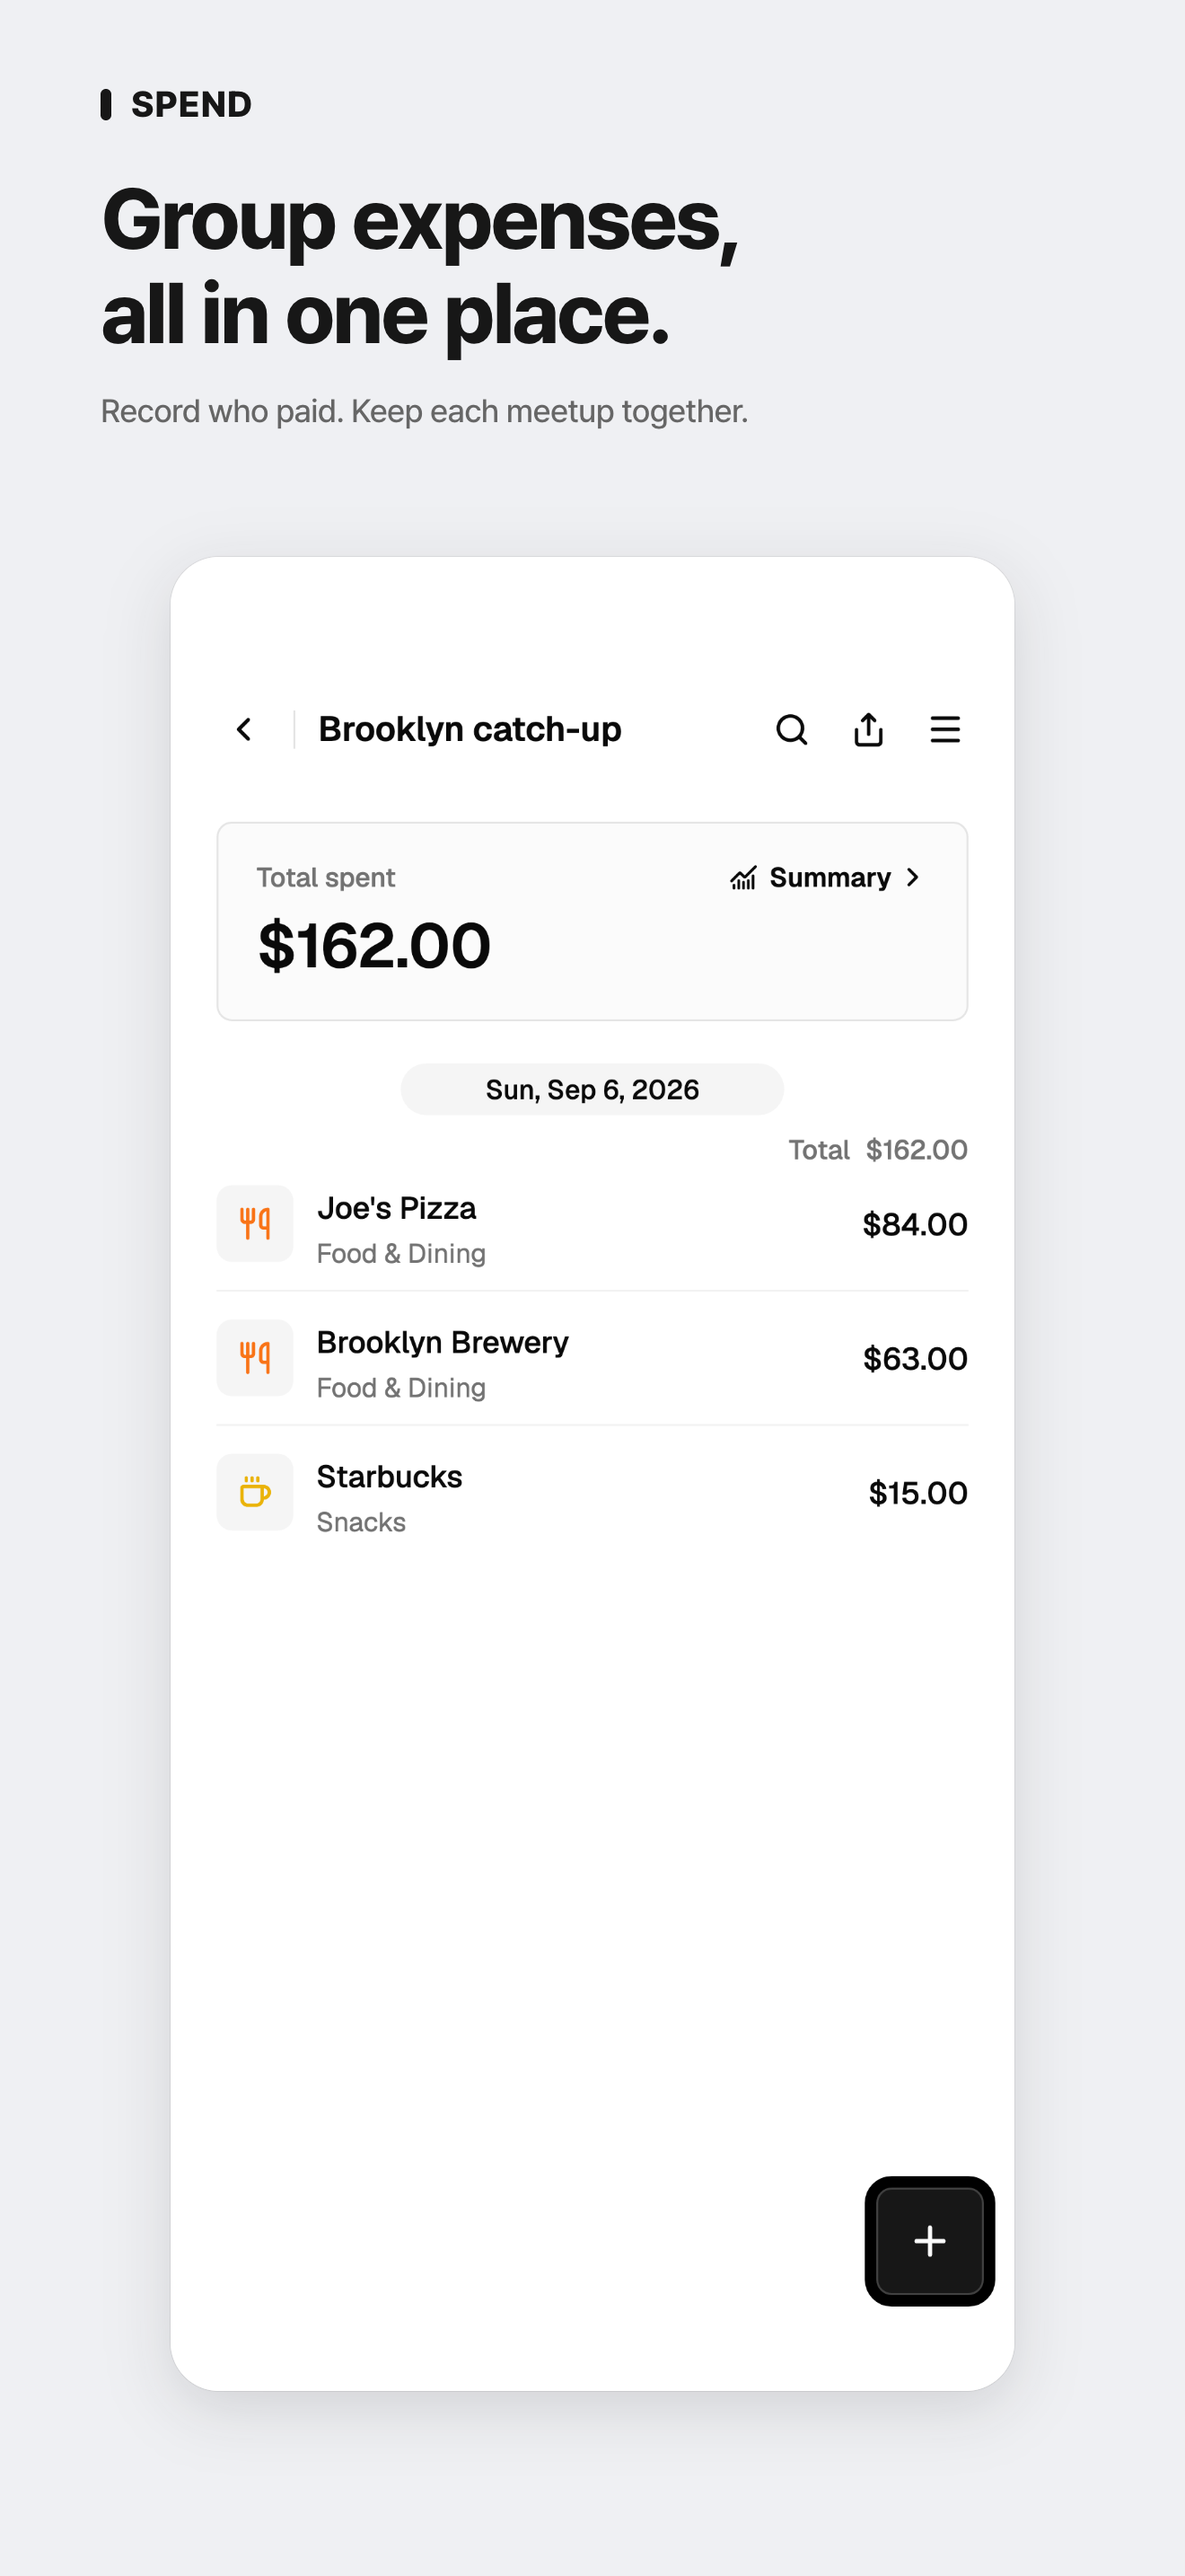
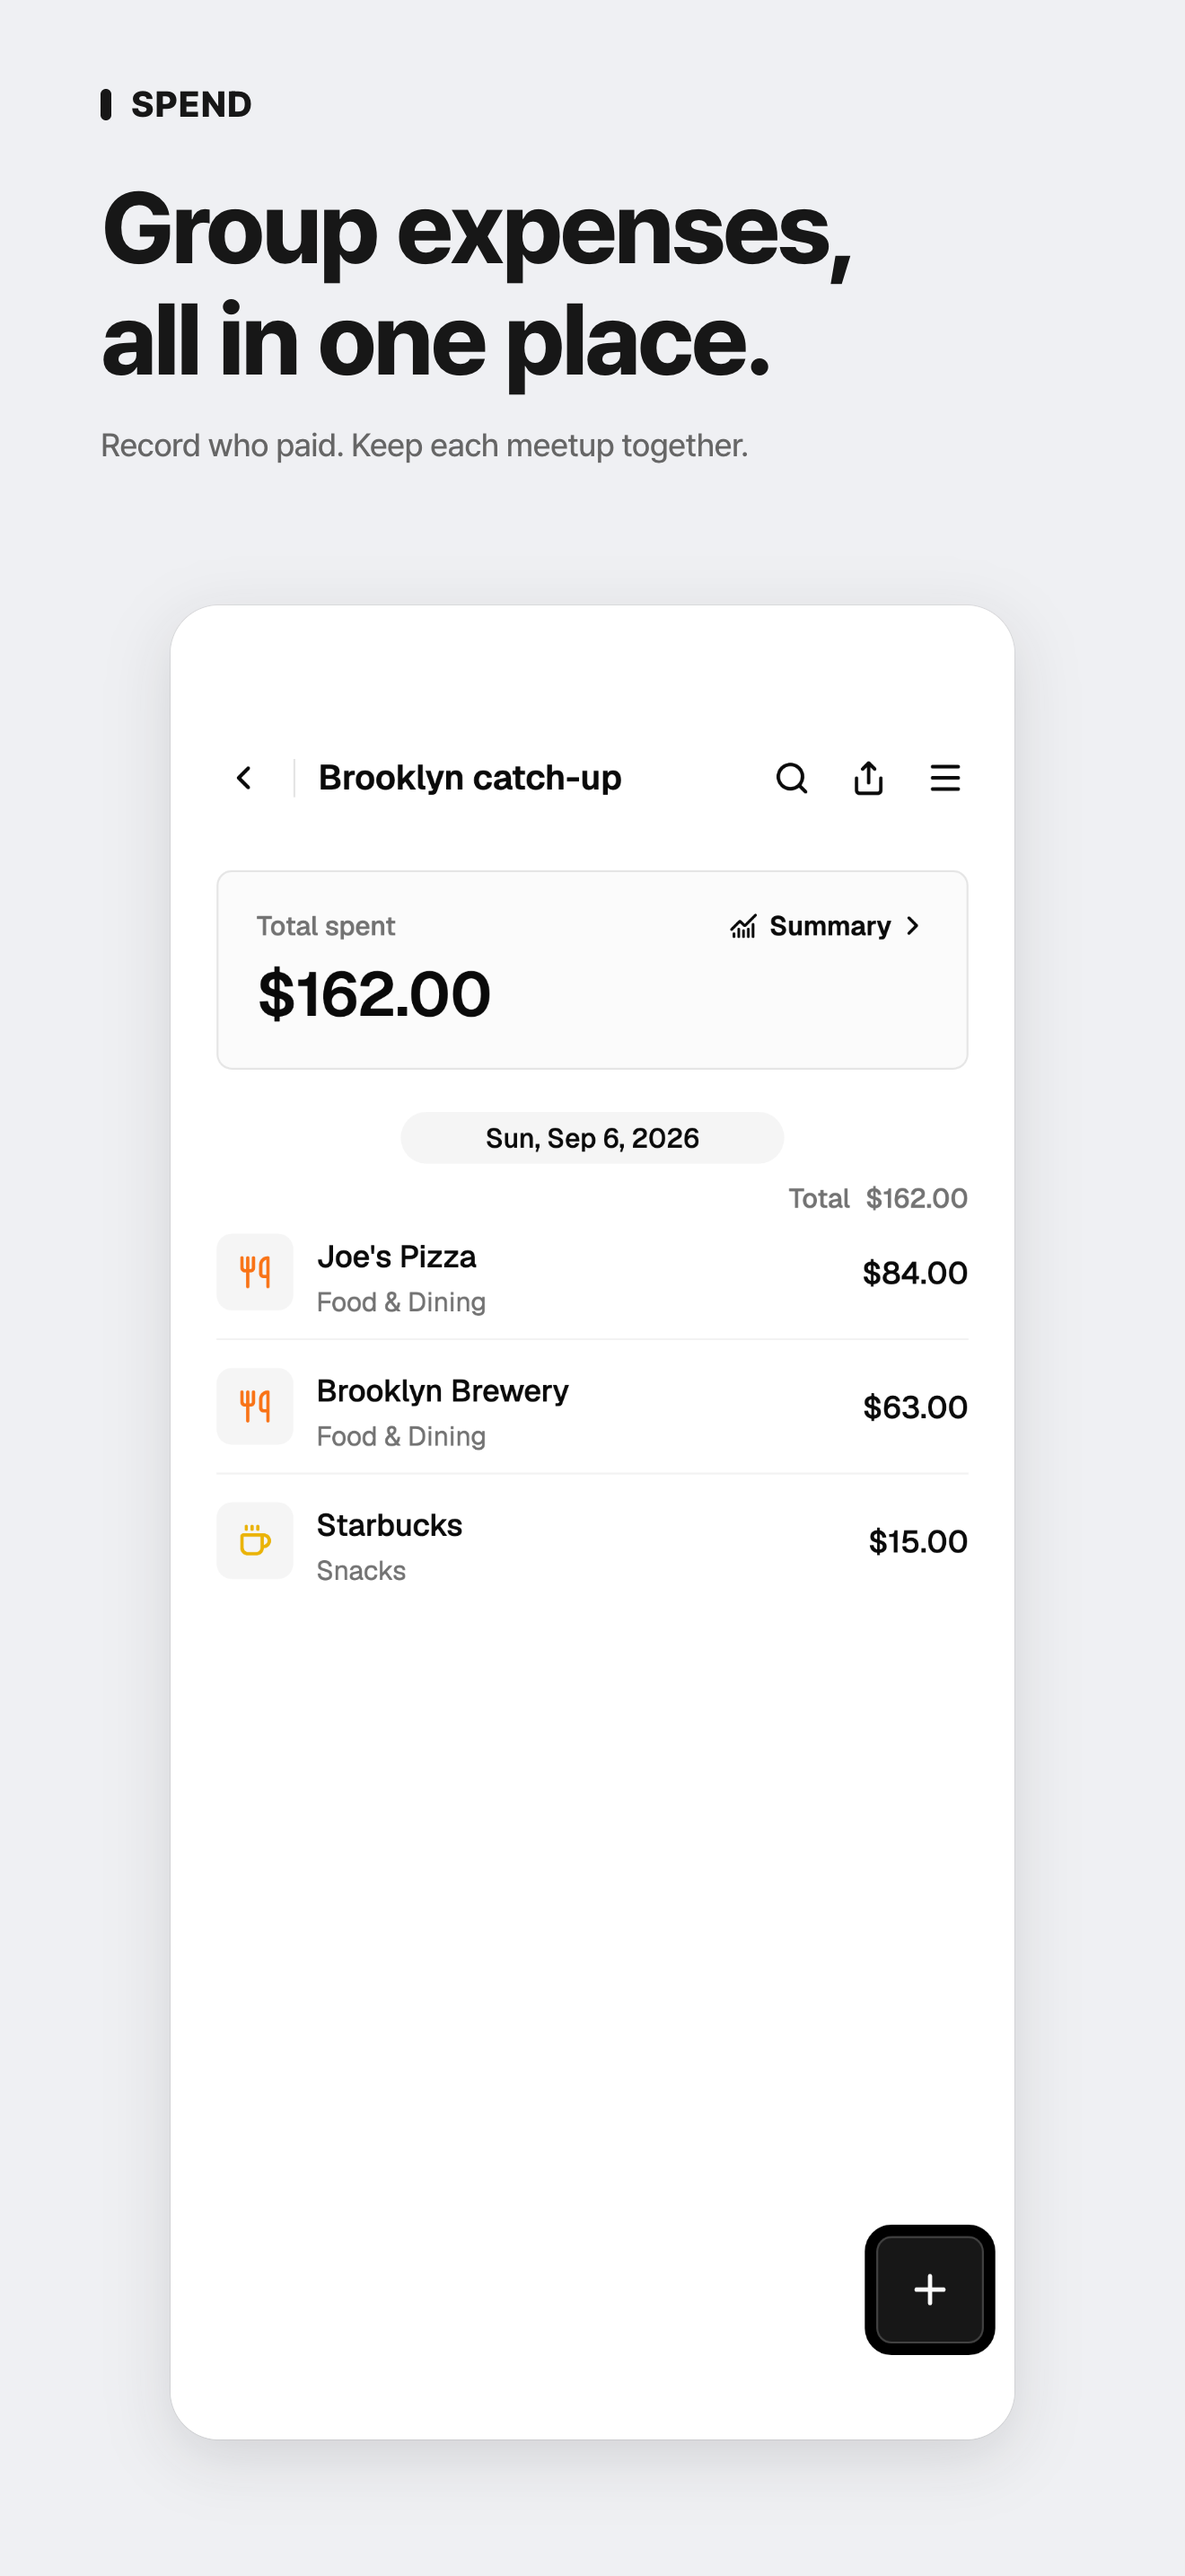
Refresh the approved third App Store screenshot

diff --git a/index.html b/index.html
@@ -35,7 +35,7 @@
         <div class="screens" tabindex="0" aria-label="Nine app screenshots. Scroll horizontally to explore.">
           <img src="/images/overview.png" width="1320" height="2868" alt="Split group bills and track travel costs: a quick calculator and an expense book.">
           <img src="/images/quick-split.png" width="1320" height="2868" alt="Quick calculator: split a 60 dollar bill between three people, 20 dollars each.">
-          <img src="/images/group-expenses.png" width="1320" height="2868" alt="Keep expenses from an evening meetup together.">
+          <img src="/images/group-expenses.png?v=939348a2d973" width="1320" height="2868" alt="Group expenses from a Brooklyn meetup, with three expenses totaling 162 US dollars.">
           <img src="/images/split-members.png" width="1320" height="2868" loading="lazy" alt="Choose who paid and who shares each expense.">
           <img src="/images/settlement.png" width="1320" height="2868" loading="lazy" alt="Member balances and suggested settlements show who owes whom.">
           <img src="/images/travel-costs.png" width="1320" height="2868" loading="lazy" alt="Record a Sydney trip day by day, with dates, places and notes.">

diff --git a/docs/active_work_tracker.md b/docs/active_work_tracker.md
@@ -79,8 +79,8 @@ Updated: 2026-09-05
 
 ## W-LANDING-20260907
 - Source: user-approved spendlab.net introduction, integrated /privacy/, legacy blog links, all 9 images, planned features, Home/Privacy navigation and copyright showing only the 2017 launch year (latest explicit user decision).
-- Status: QUEUED — muted steel blue verified; awaiting GitHub Pages administrator login for domain cutover. Slot: current website delivery.
-- Scope update: move Android planned beside iPhone below Store CTA; refine the three remaining roadmap items with clear hierarchy and dividers; apply muted steel-blue accents inspired by the softness of the former gold, preserving background/body colors. Advanced statistics includes both spending patterns and travel records. Existing gallery/nav/policy remain.
-- Evidence: steel blue dark #9bb8d0 / light #466b88; contrast 9.58:1/5.65:1, local stylesheet bytes and diff hygiene pass. User-directed design choice, not an app brand-color claim. Only accent/version changes; content, © 2017 SPEND and base colors preserved.
+- Status: QUEUED — design approved and third image refreshed; awaiting GitHub Pages administrator login for domain cutover. Slot: current website delivery.
+- Scope update: move Android planned beside iPhone below Store CTA; refine the three remaining roadmap items with clear hierarchy and dividers; apply muted steel-blue accents inspired by the softness of the former gold, preserving background/body colors. Advanced statistics includes both spending patterns and travel records. Refresh only gallery image 03 from the updated approved source. Existing nav/policy remain.
+- Evidence: steel blue revision 6253a68 pushed and accepted; latest image 03 visually inspected and copied exactly (939348a2d973…), versioned local image response matches. All 9 manifest hashes and diff hygiene pass. Copyright/policy/base colors preserved.
 - Domain: Cloudflare login verified. Existing apex has two proxied A records; blog CNAME already targets spendlab.github.io. GitHub CLI account has push, not admin; Pages still blog.spendlab.net.
 - Next: after GitHub administrator login, configure apex custom domain/DNS/legacy redirects, merge the prepared branch and verify deployment. Details: work_history/2026.09.07-app-introduction.md.

diff --git a/docs/work_history/2026.09.07-app-introduction.md b/docs/work_history/2026.09.07-app-introduction.md
@@ -47,3 +47,9 @@ User approved trying the app game-icon rose after the SPEND Navy revision cbf05a
 ## Muted blue with the former gold’s softness
 
 After rose revision 14ff6d9, the user preferred the earlier gold feeling and requested an alternative in the blue family. Applied a muted steel blue: dark #9bb8d0 and light #466b88. This is a website design choice following that direction, not an asserted app brand token. Contrast passes at 9.58:1 and 5.65:1. Normalized source comparison confirms only accent values and stylesheet query versions changed; local stylesheet bytes match source; git diff --check passes. Prior layout, content, image, copyright and route evidence remains valid. Preview updated; no browser visual QA. Domain cutover remains pending GitHub administrator access.
+
+## Approved design and refreshed image 03
+
+User approved the current steel-blue design after commit 6253a68 and requested the changed third screenshot. Inspected the updated approved source /Users/jaegeun/workspace/spend/docs/store_listing/2026.09.07/final-9/en-US/03.png: “Group expenses, all in one place”, Brooklyn catch-up, three expenses totaling $162. The source remains 1320×2868 PNG and was copied without image edits to images/group-expenses.png. SHA-256 changed from 1f4d872b9265b2da1fa1ccb8169804bf341cfe1b10a627b922eafaa77f863e7f to 939348a2d973b3597f8b1790711d179a07f64e60c494f09764eeb4a4971a7486. Updated source manifest, descriptive alt text and image URL query v=939348a2d973 to avoid stale browser/CDN content.
+
+All nine website assets match their manifest; the versioned local image response hashes to the exact updated source; git diff --check passes. Other images and selected design remain unchanged. Implementation is ready and user-approved; the remaining task is the previously recorded administrator login followed by domain cutover/public verification. No production deployment claimed.
